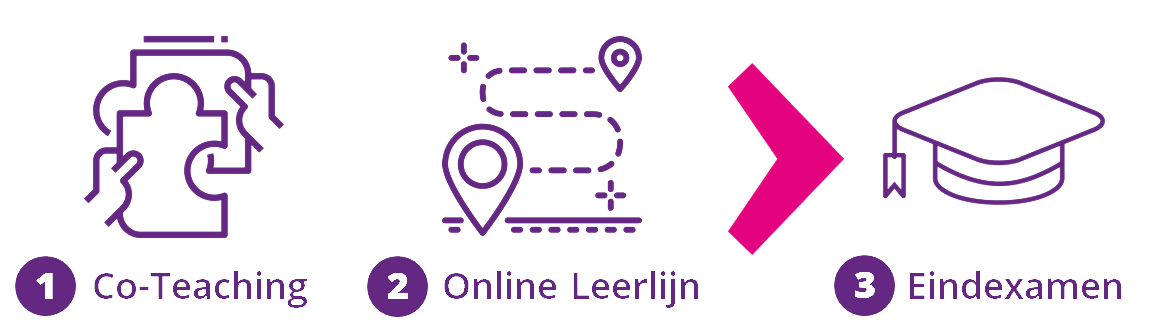
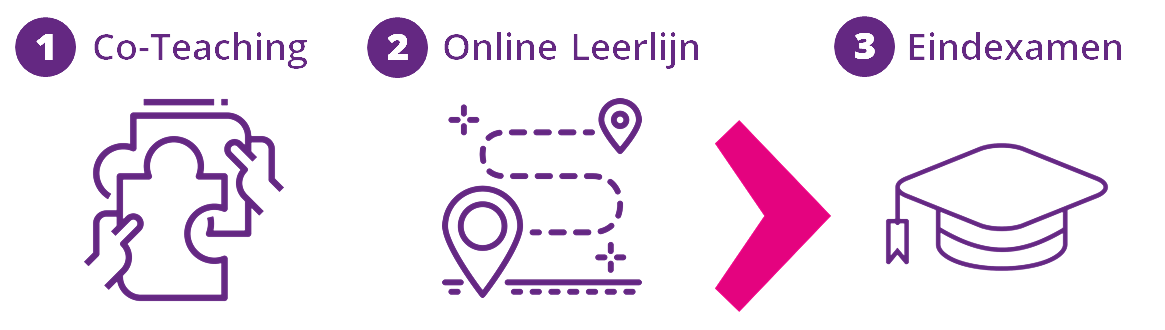
Incorporated feedback on text by Vera C.

diff --git a/pages/over/index.tsx b/pages/over/index.tsx
@@ -19,15 +19,16 @@ const Home = () => {
 
           <h2>Wat?</h2>
           <p>
-            Co-Teach Informatica is een pilotproject waarin met behulp van
-            gastdocenten uit het bedrijfsleven, universiteiten, en
-            rijksinstanties het{" "}
+            Co-Teach Informatica is een pilotproject waarin scholen het{" "}
+            <strong>eindexamenvak informatica kunnen aanbieden</strong> door een
+            combinatie van projectonderwijs door IT professionals en een online
+            leerlijn –{" "}
             <strong>
-              vak informatica aangeboden kan worden op middelbare scholen – ook
-              zonder informaticaleraar
-            </strong>
-            . Dit begeleid door een regionaal vaksteunpunt en een online
-            leerlijn die het schoolexamen informatica omvat.
+              ook wanneer een school (nog) geen informaticaleraar in dienst
+              heeft.
+            </strong>{" "}
+            Het project start op met havo/vwo leerlingen in klas 3 en de
+            bovenbouw.
           </p>
 
           <h2>Waarom?</h2>
@@ -35,18 +36,19 @@ const Home = () => {
             Informatica kent erg grote tekorten. Het vak wordt daardoor steeds
             minder aangeboden op scholen terwijl steeds meer leerlingen het
             willen volgen. Wij stellen scholen in staat om (weer) informatica
-            aan te bieden wanneer er geen bevoegd docent beschikbaar is. Het
-            doel is om in 2024 120 getrainde gastdocenten te hebben en minstens
-            3000 leerlingen van informatica onderwijs te hebben voorzien.
+            aan te bieden als er geen bevoegde leraar beschikbaar is. Het doel
+            is om in 2024 120 getrainde gastdocenten te hebben en minstens 3000
+            extra leerlingen van informatica onderwijs te hebben voorzien,
+            uitmondend in het eindexamen.
           </p>
 
           <p>
-            Een bijkomend voordeel van deze vorm is dat het{" "}
+            Een bijkomend voordeel is dat co-teaching het{" "}
             <strong>
               informatica-onderwijs dichter bij de dagelijkse praktijk brengt
             </strong>
             . Daarom werken we ook met scholen die <em>wel</em> een bevoegd
-            informaticadocent hebben, of die deze in de loop van het project
+            informaticaleraar hebben, of die deze in de loop van het project
             aantrekken.
           </p>
 
@@ -56,34 +58,43 @@ const Home = () => {
             alt="Co-teaching en een online leerlijn maken het eindexamen mogelijk."
             style={{ margin: "20px 0px" }}
           />
+          <h3>
+            <span>1</span>Co-Teaching
+          </h3>
           <p>
-            Scholen, lerarenopleidingen en het ICT-bedrijfsleven werken aan:
-            <ol>
-              <li>
-                <strong>Co-teaching</strong> van projectonderwijs door
-                inhoudsdeskundige gastdocenten en (anders-)bevoegde leraren in
-                onderbouw en bovenbouw havo/vwo. Dit hele proces, van
-                vooropleiding tot projectontwikkeling, van uitvoer tot
-                examinering, wordt ondersteund door een regionale vakdidacticus.
-              </li>
-              <li>
-                Het ontwikkelen en aanbieden van een{" "}
-                <strong>online leerlijn</strong> voor de (verplichte en
-                keuze-)informaticadomeinen uit het examenprogramma (naar
-                voorbeeld van{" "}
-                <a href="https://www.ou.nl/web/wiskunde-d" target="_blank">
-                  Wiskunde D online
-                </a>
-                ). Deze leerlijn wordt ondersteund door een regionaal
-                vaksteunpunt (bemenst door studenten informatica).
-              </li>
-              <li>
-                Ook steunen we scholen in het{" "}
-                <strong>vormgeven van hun schoolexamens</strong> in de
-                bovenbouw, en maken het zo mogelijk dat leerlingen in
-                informatica kunnen afstuderen.
-              </li>
-            </ol>
+            Het verzorgen van <strong>projectonderwijs</strong> door een tandem
+            van een inhoudsdeskundige gastdocent en een (anders-)bevoegde leraar
+            van de school in kwestie. Hiervoor werken we samen met experts uit
+            het bedrijfsleven en vanuit universiteiten en rijksinstanties. Een
+            regionale vakdidacticus verzorgt de begeleiding van het gehele
+            traject.
+          </p>
+
+          <h3>
+            <span>2</span>Online Leerlijn
+          </h3>
+
+          <p>
+            Het ontwikkelen en aanbieden van een online leerlijn voor de{" "}
+            <strong>informaticadomeinen uit het examenprogramma</strong> (naar
+            voorbeeld van{" "}
+            <a href="https://www.ou.nl/web/wiskunde-d" target="_blank">
+              Wiskunde D online
+            </a>
+            ). Leerlingbegeleiding op het online leerplatform gebeurt vanuit het
+            regionale vaksteunpunt.
+          </p>
+
+          <h3>
+            <span>3</span>Eindexamen
+          </h3>
+
+          <p>
+            Met de expertise van het SLO in hand, steunen we op landelijk en
+            regionaal niveau scholen in het{" "}
+            <strong>vormgeven van hun schoolexamens</strong> in de bovenbouw, en
+            maken het zo mogelijk dat leerlingen in informatica eindexamen
+            kunnen doen.
           </p>
 
           <h2>Waar?</h2>
@@ -98,15 +109,15 @@ const Home = () => {
           <p>
             2020-2021 geldt als opstartjaar, waarin we met een kleine groep
             scholen per regio beginnen met het opzetten van projectonderwijs in
-            de derde klas (HAVO/VWO). Het doel is dat zoveel mogelijk leerlingen
+            de derde klas (havo/vwo). Het doel is dat zoveel mogelijk leerlingen
             kennismaken met het vak, om hen te motiverenvoor een gefundeerde
-            keus voor het vak in de bovenbouw.
+            keuze voor het vak in de bovenbouw.
           </p>
           <p>
             In de opvolgende jaren breiden we uit naar meer scholen en de
             bovenbouw.{" "}
             <strong>
-              Aanmelden kan ten alle tijden via de formulieren voor{" "}
+              Aanmelden kan te allen tijde via de formulieren voor{" "}
               <Link href="/voor-scholen">
                 <a>scholen</a>
               </Link>{" "}

diff --git a/pages/voor-professionals/index.tsx b/pages/voor-professionals/index.tsx
@@ -85,8 +85,9 @@ const Index = (props: {}) => (
             </summary>
             <p>
               Als gastdocent geef je vorm aan <strong>40 studielasturen</strong>
-              . Om dit mogelijk te maken vragen we werkgevers om deze uren vrij
-              te maken voor enthousiaste medewerkers. Gelukkig hebben veel
+              : 40 klokuren waarin leerlingen binnen en buiten het klaslokaal
+              aan de slag gaan met jouw project. Om dit mogelijk te maken vragen
+              we je werkgever om deze uren vrij te maken. Gelukkig hebben veel
               bedrijven al regelingen om een maatschappelijke bijdrage te
               leveren namens het bedrijf voor 40 (of meer) uur. En uiteraard
               verwelkomt Co-Teach ook zzp'ers. Let op dat het hele traject,
@@ -101,12 +102,12 @@ const Index = (props: {}) => (
               helpt ons om een groep leerlingen te vinden die voorbereid is om
               in jouw wereld te duiken. Ook vragen we je alvast wat voor
               tijdsinzet mogelijk is voor je: verspreid over meerdere weken of
-              juist instensief (bijv. een projectweek).
+              juist intensief (bijv. een projectweek).
             </p>
             <p>
               Nadat je je aangemeld hebt wordt je opgenomen in de Co-Teach
-              gastdocent-database. Geen zorgen, deze is AVG-proof en wordt
-              beheerd door de Universiteit van Utrecht (lees{" "}
+              database. Geen zorgen, deze is AVG-proof en wordt beheerd door de
+              Universiteit Utrecht (lees{" "}
               <Link href="/privacyverklaring">
                 <a>onze privacyverklaring</a>
               </Link>
@@ -121,33 +122,34 @@ const Index = (props: {}) => (
 
             <h3>Het trainings- en ontwikkelingstraject</h3>
             <p>
-              Wanneer we een goede match voor je gevonden hebben sturen we je
-              een uitnodiging om daadwerkelijk een co-teach traject af te
-              leggen. Nadat jij en je werkgever (waar van toepassing) akkoord
-              zijn gegaan met de voorwaarden, begint het voortraject.
+              Wanneer we een goede match voor je gevonden hebben, leggen we
+              contact met je over ons voorstel. Nadat jij en je werkgever (waar
+              van toepassing) akkoord zijn gegaan met de voorwaarden, begint het
+              voortraject.
             </p>
             <p>
               Je zult daarin eerst een crash course (vak)pedagogische kennis en
-              vaardigheden ontvangen. Vervolgens werk je een-op-een met een
+              vaardigheden volgen. Vervolgens werk je een-op-een met een
               regionale vakdidacticus die je helpt om het aanstaande
               projectonderwijs vorm te geven. Zo zorgen we ervoor dat er goede
-              aansluiting is tussen de kennis van jou en de leerlingen. Ook zoek
-              je samen naar de beste vormen: waar virtueel of fysiek, en waar
-              theorie of praktijk? Tot slot ga je ook nadenken over examinering:
-              wanneer weet je dat leerlingen de leerstof hebben opgenomen?
+              aansluiting is tussen jouw kennis en die van de leerlingen. Ook
+              zoek je samen naar de beste vormen: waar virtueel of fysiek, en
+              waar theorie of praktijk? Tot slot ga je ook nadenken over
+              examinering: wanneer weet je dat leerlingen de leerstof hebben
+              opgenomen?
             </p>
 
             <h3>Co-Teaching</h3>
             <p>
               Met je project op zak ga je aan de slag op jouw school. Hier werk
               je samen met een co-teacher: een (anders-)bevoegde docent die je
-              ondersteund tijdens het projectonderwijs. Op afstand kijkt ook de
+              ondersteunt tijdens het projectonderwijs. Op afstand kijkt ook de
               vakdidacticus mee naar de voortgang.
             </p>
 
             <p>
-              Afhankelijk van de wensen van de school werk je samen met één of
-              meer klassen binnen de 40 studielasturen.
+              Afhankelijk van de wensen van de school werk je met één of meer
+              klassen binnen de 40 studielasturen.
             </p>
 
             <h3>Afronding</h3>
@@ -168,8 +170,8 @@ const Index = (props: {}) => (
             <p>
               Co-Teach Informatica zet in op bedrijven die hun medewerkers uren
               geven om een maatschappelijke bijdrage te leveren en deze uren
-              willen inzetten om informaticaonderwijs te verbeteren, al dan niet
-              mogelijk te maken.
+              willen inzetten om informaticaonderwijs te verbeteren en te
+              stimuleren.
             </p>
 
             <p>
@@ -191,7 +193,7 @@ const Index = (props: {}) => (
         <section>
           <h2>Meld je aan</h2>
           <p>
-            Ben jij een IT professional en wil jij ook gastdocent worden in
+            Ben jij een IT-professional en wil jij ook gastdocent worden in
             Co-Teach Informatica? Of wil je gewoon meer informatie ontvangen?
             Vul dan onderstaand formulier in.
           </p>

diff --git a/components/Paths/Paths.tsx b/components/Paths/Paths.tsx
@@ -16,14 +16,14 @@ const Paths = (props: {}) => (
           <li>Enthousiasmeer leerlingen om in IT te werken</li>
           <li>Gebruik je expertise om authentieke uitdagingen te ontwerpen</li>
           <li>Bouw bekwaamheden op in lesgeven en communicatie</li>
-          <li>Lever een maatschappelijke bijdrage in digitale geletterheid</li>
+          <li>Lever een maatschappelijke bijdrage in digitale geletterdheid</li>
         </ul>
         <p>
-          Als gastdocent ontvang je een <em>crash course</em>, doorlopende
+          Als gastdocent krijg je een <em>crash course</em>, doorlopende
           professionele begeleiding en heb je de vrijheid om zelf
           projectonderwijs vorm te geven.{" "}
           <Link href="/voor-professionals">
-            <a>Meer informatie voor IT professional, managers en eigenaren.</a>
+            <a>Meer informatie voor IT-professionals, managers en eigenaren.</a>
           </Link>
         </p>
       </div>
@@ -39,13 +39,14 @@ const Paths = (props: {}) => (
         <ul>
           <li>
             Volg informatica, van de eerste kennismaking tot het eindexamen
+            (havo en vwo)
           </li>
           <li>Leer van professionals en bouw je netwerk op</li>
           <li>Werk aan projecten die nu spelen in het werkveld</li>
         </ul>
         <p>
           Door het aanbieden van zowel een leerlijn als projectonderwijs geeft
-          Co-Teach Informatica scholen de kans om ondanks het leraartekort toch
+          Co-Teach Informatica scholen de kans om ondanks het lerarentekort toch
           dit belangrijke vak vorm te kunnen geven.{" "}
           <Link href="/voor-scholen">
             <a>Meer informatie voor leerlingen, leraren en schoolbestuurders</a>

diff --git a/components/Banner/Banner.tsx b/components/Banner/Banner.tsx
@@ -13,11 +13,11 @@ const Banner = (props: {}) => (
       <p>
         Middelbare scholen en leerlingen staan te popelen om aan de slag te gaan
         met informatica, maar de vraag naar docenten is al jaren groter dan het
-        aanbod. Gelukkig zit Nederland bomvol enthousiast IT talent. Binnen
-        Co-Teach Informatica ontwikkelen zij projectonderwijs naar hun
+        aanbod. Gelukkig zit Nederland bomvol enthousiast IT professionals.
+        Binnen Co-Teach Informatica ontwikkelen zij projectonderwijs naar hun
         expertise, samen met bevoegde leraren en vakdidactici. Co-Teaching
         noemen we dat. Zo willen wij in 2023 minstens 3000 extra leerlingen
-        informatica aan kunnen bieden – <strong>doe jij mee?</strong>
+        eindexamen informatica kunnen laten doen – <strong>doe jij mee?</strong>
       </p>
     </div>
   </section>

diff --git a/pages/voor-scholen/index.tsx b/pages/voor-scholen/index.tsx
@@ -130,9 +130,9 @@ const Index = (props: {}) => (
           <h2>Meld je aan</h2>
           <p>
             Ben jij een leerling die informatica wil kunnen volgen, een
-            schoolbestuurder die het vak wil aanbieden, of een
-            informatica-leraar die het bedrijfsleven het klaslokaal in wil
-            halen? Vul dan onderstaand formulier in.
+            schoolbestuurder die het vak wil aanbieden, of een informatica
+            leraar die het bedrijfsleven het klaslokaal in wil halen? Vul dan
+            onderstaand formulier in.
           </p>
           <iframe
             className={classes.Survey}

diff --git a/pages/over/over.module.scss b/pages/over/over.module.scss
@@ -2,4 +2,21 @@
   h2:first-of-type {
     margin-top: 0.75em;
   }
+
+  h3 {
+    margin-top: 0.5em;
+    margin-bottom: 0.3em;
+  }
+
+  h3 span {
+    background: var(--coteach-purple);
+    color: white;
+    border-radius: 100%;
+    width: 1.55em;
+    height: 1.55em;
+    text-align: center;
+    display: inline-block;
+    font-weight: 800;
+    margin-right: 7px;
+  }
 }
